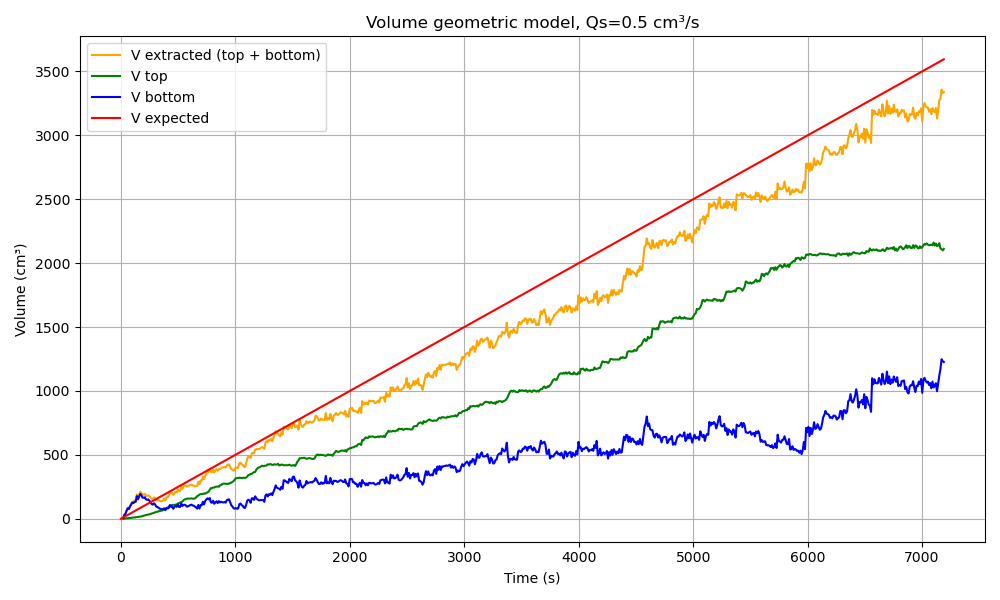
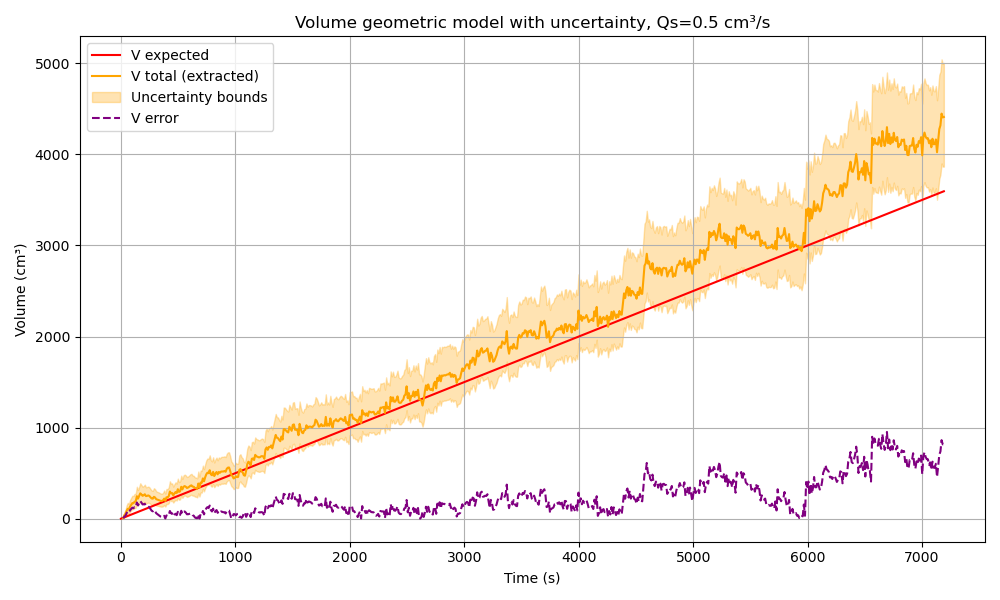
updated

diff --git a/src/plot_msred_data.py b/src/plot_msred_data.py
@@ -30,7 +30,6 @@ L1 = df_msred['L1'].astype(float)
 L2 = df_msred['L2'].astype(float)
 L3 = df_msred['L3'].astype(float)
 angle = df_msred['angle'].astype(float)
-
 # fig, axs = plt.subplots(5, 1, figsize=(10, 6), sharex=True)
 
 # # Plot V
@@ -72,35 +71,70 @@ angle = df_msred['angle'].astype(float)
 # Volume geometric model
 # The sediment and water supplies were individually controlled by an sandglass-like funnel (potential error ≤ 2%) and a tube connected to multiple weirs (potential error ≤ 0.5%), respectively
 long_slope = 0.22
+theta = np.radians(angle)
 L_mean = (L2+L3)/2
 beta = long_slope
-h = L_mean * beta * 1.0/np.sqrt(1.0+np.square(beta))
-# r = L_mean * 1.0/np.sqrt(1.0+np.square(beta)) # this is the same with r down there
+h = L_mean*np.cos(theta/2) * beta * 1.0/np.sqrt(1.0+np.square(beta))
 r = np.sqrt(np.square(L_mean) - np.square(h))
 
-theta = np.radians(angle)
+
 theta_star = 2.0 * np.arcsin(L_mean/r * np.sin(theta/2))
 
 H = beta * L1/np.sqrt(1.0+np.square(beta)) - h
 # R = L1/np.sqrt(1.0+np.square(beta)) # this is the same with R down there
 R = np.sqrt(np.square(L1) - np.square(H+h))
 
-# V_bottom = 0
-# R_range = np.arange()
-
 # cm^3
 V_top = 1/3 * h * np.square(r) * (theta_star/2 - np.cos(theta_star/2)*np.sin(theta_star/2))
-V_bottom = -H * theta_star * 1/2 * (np.square(r) - np.square(R))
+V_bottom = H * theta_star * 1/2 * (np.square(R)- np.square(r))
+V_total = V_top + V_bottom
 
-# Plot it with the same x-axis and the V
+# Define the uncertainty in L1, L2, and L3
+uncertainty_L = 3.0  # cm
+
+# Calculate upper and lower bounds for L1, L2, and L3
+L1_upper = L1 + uncertainty_L
+L1_lower = L1 - uncertainty_L
+L2_upper = L2 + uncertainty_L
+L2_lower = L2 - uncertainty_L
+L3_upper = L3 + uncertainty_L
+L3_lower = L3 - uncertainty_L
+
+# Recalculate h, r, theta_star, H, R, V_top, and V_bottom for upper and lower bounds
+h_upper = (L2_upper + L3_upper) / 2 * np.cos(theta / 2) * beta * 1.0 / np.sqrt(1.0 + np.square(beta))
+h_lower = (L2_lower + L3_lower) / 2 * np.cos(theta / 2) * beta * 1.0 / np.sqrt(1.0 + np.square(beta))
+
+r_upper = np.sqrt(np.square((L2_upper + L3_upper) / 2) - np.square(h_upper))
+r_lower = np.sqrt(np.square((L2_lower + L3_lower) / 2) - np.square(h_lower))
+
+theta_star_upper = 2.0 * np.arcsin((L2_upper + L3_upper) / (2 * r_upper) * np.sin(theta / 2))
+theta_star_lower = 2.0 * np.arcsin((L2_lower + L3_lower) / (2 * r_lower) * np.sin(theta / 2))
+
+H_upper = beta * L1_upper / np.sqrt(1.0 + np.square(beta)) - h_upper
+H_lower = beta * L1_lower / np.sqrt(1.0 + np.square(beta)) - h_lower
+
+R_upper = np.sqrt(np.square(L1_upper) - np.square(H_upper + h_upper))
+R_lower = np.sqrt(np.square(L1_lower) - np.square(H_lower + h_lower))
+
+V_top_upper = 1 / 3 * h_upper * np.square(r_upper) * (theta_star_upper / 2 - np.cos(theta_star_upper / 2) * np.sin(theta_star_upper / 2))
+V_top_lower = 1 / 3 * h_lower * np.square(r_lower) * (theta_star_lower / 2 - np.cos(theta_star_lower / 2) * np.sin(theta_star_lower / 2))
+
+V_bottom_upper = H_upper * theta_star_upper * 1 / 2 * (np.square(R_upper) - np.square(r_upper))
+V_bottom_lower = H_lower * theta_star_lower * 1 / 2 * (np.square(R_lower) - np.square(r_lower))
+
+# Total volume upper and lower bounds
+V_total_upper = V_top_upper + V_bottom_upper
+V_total_lower = V_top_lower + V_bottom_lower
+
+# Plot V_expected and V_total with upper and lower bounds
 fig, ax = plt.subplots(figsize=(10, 6))
-ax.plot(x, V_top + V_bottom, color='orange', label='V extracted (top + bottom)')
-ax.plot(x, V_top, color='green', label='V top')
-ax.plot(x, V_bottom, color='blue', label='V bottom')
 ax.plot(x, V, color='r', label='V expected')
+ax.plot(x, V_total, color='orange', label='V total (extracted)')
+ax.fill_between(x, V_total_lower, V_total_upper, color='orange', alpha=0.3, label='Uncertainty bounds')
+ax.plot(x, np.abs(V - V_total), color='purple', linestyle='--', label='V error')
 ax.set_xlabel('Time (s)')
 ax.set_ylabel('Volume (cm³)')
-ax.set_title(f'Volume geometric model, Qs={Qs} cm³/s')
+ax.set_title(f'Volume geometric model with uncertainty, Qs={Qs} cm³/s')
 ax.legend(loc='upper left')
 ax.grid()
 plt.tight_layout()
